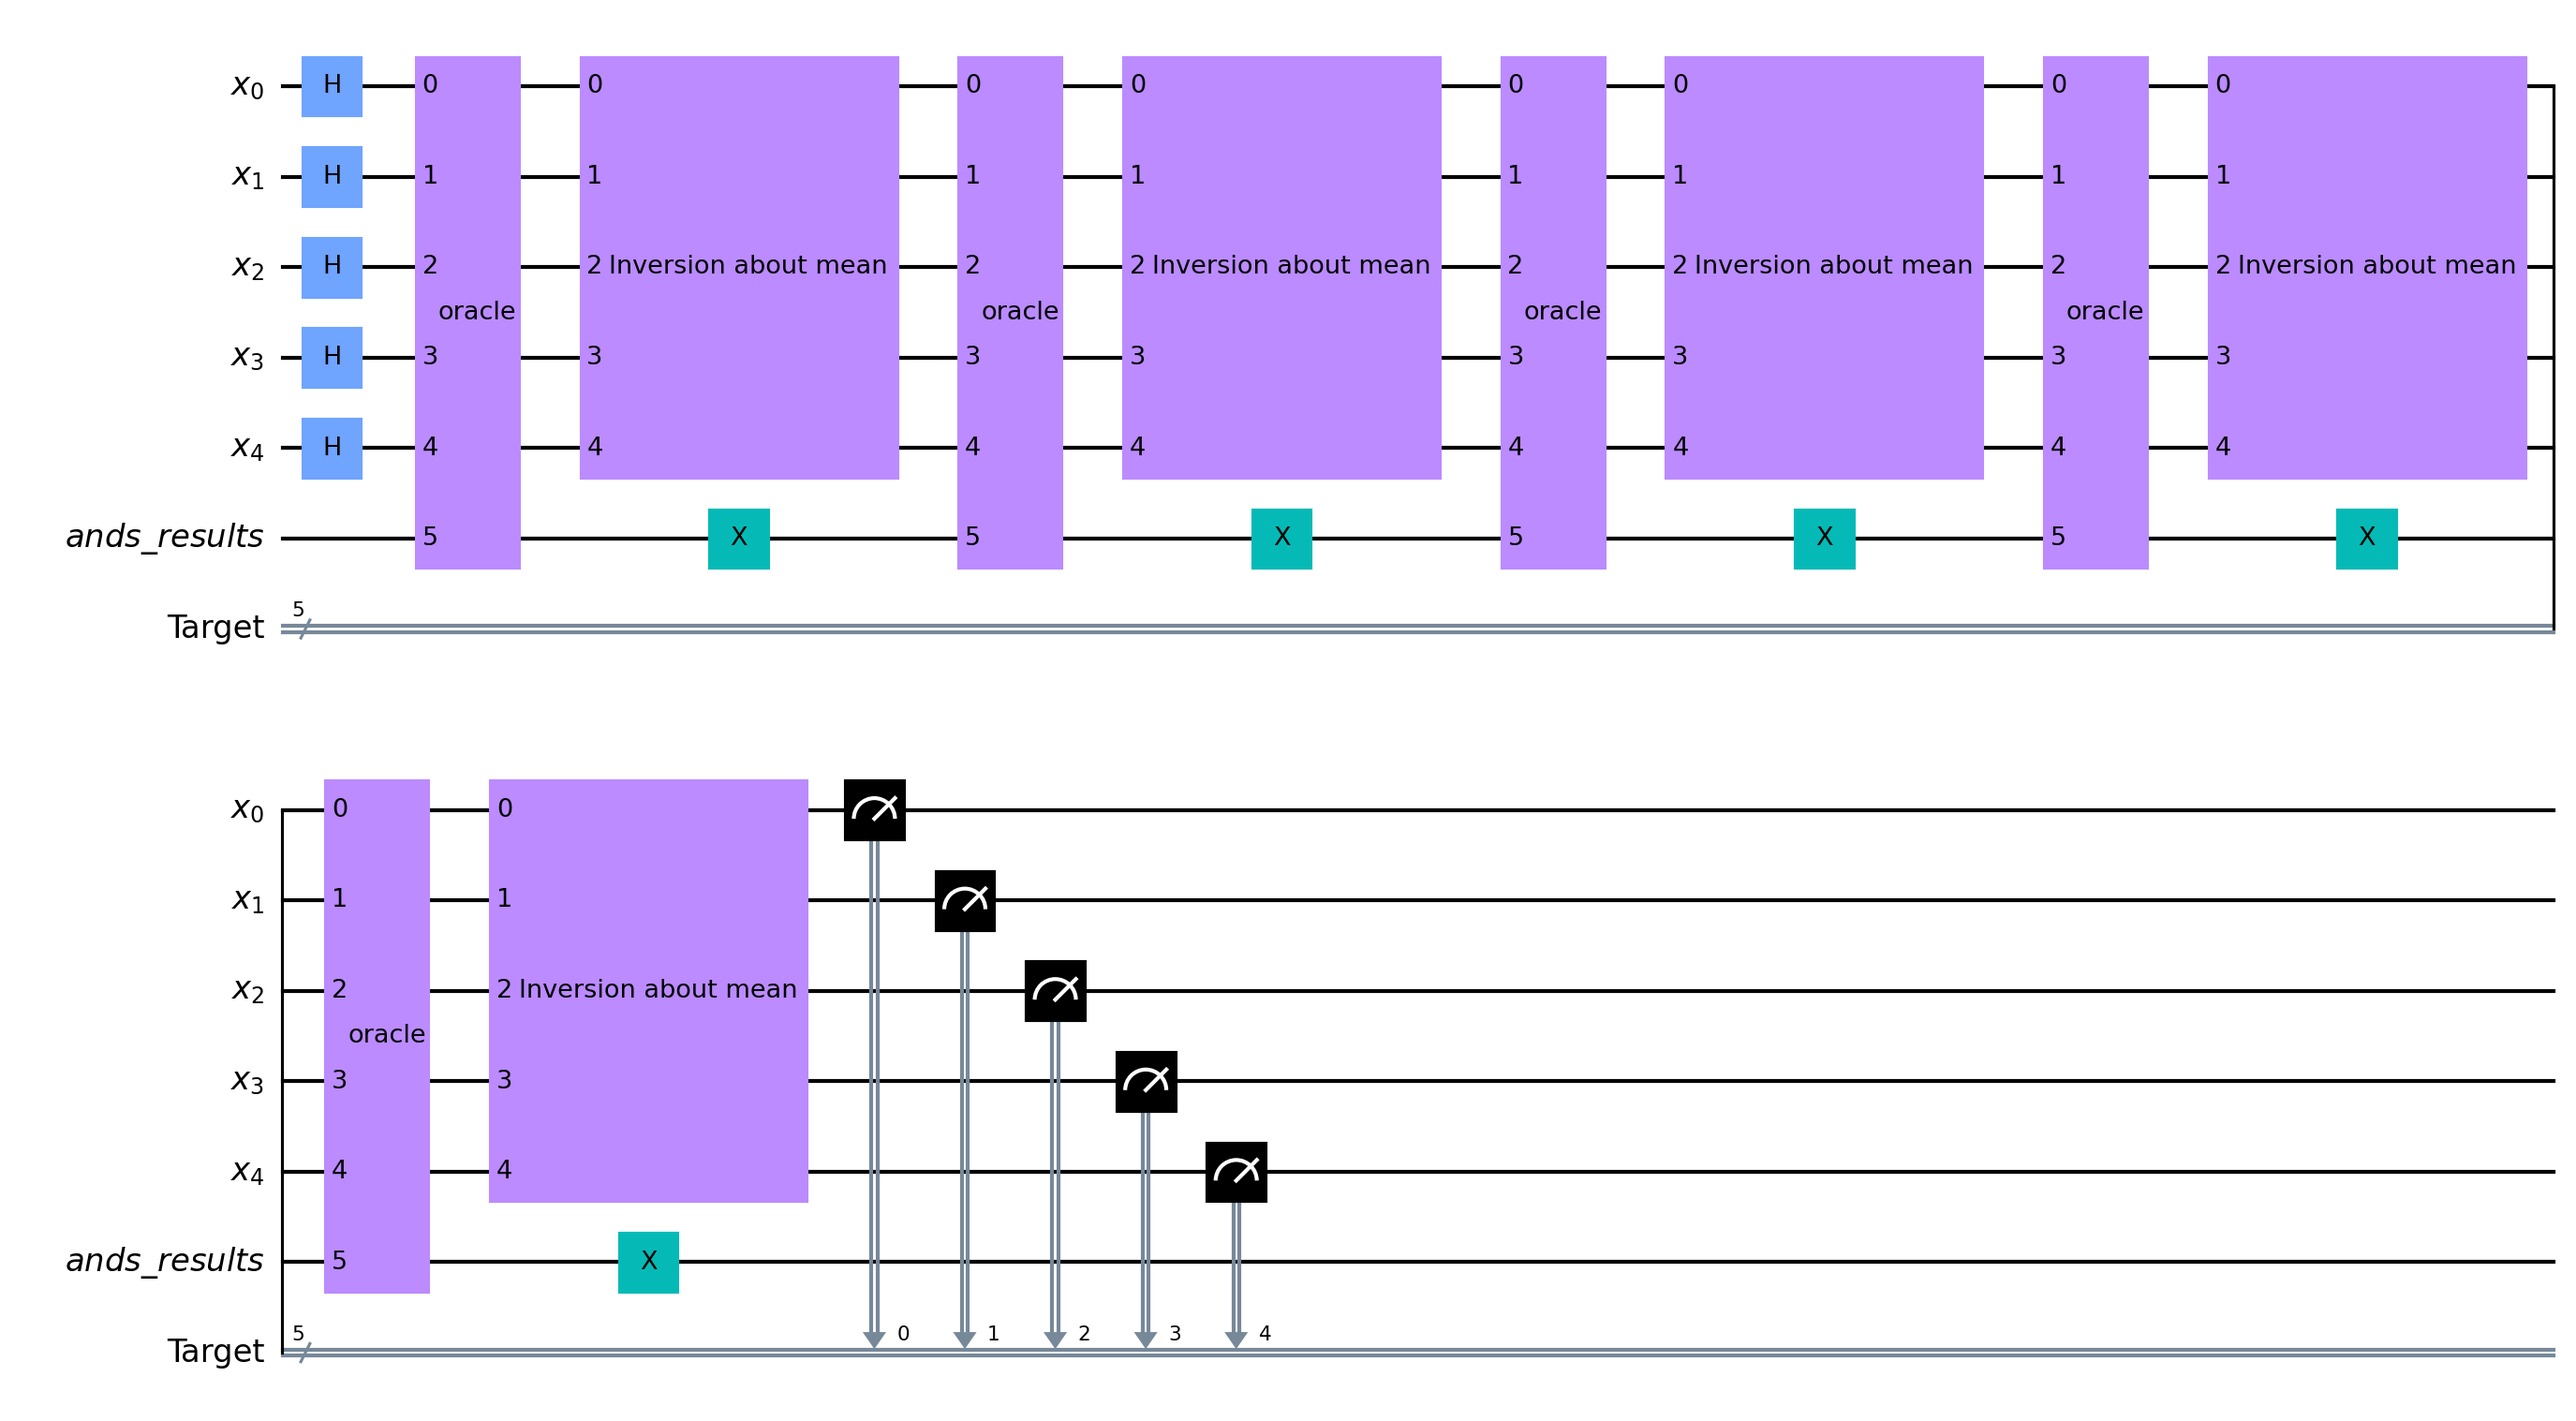
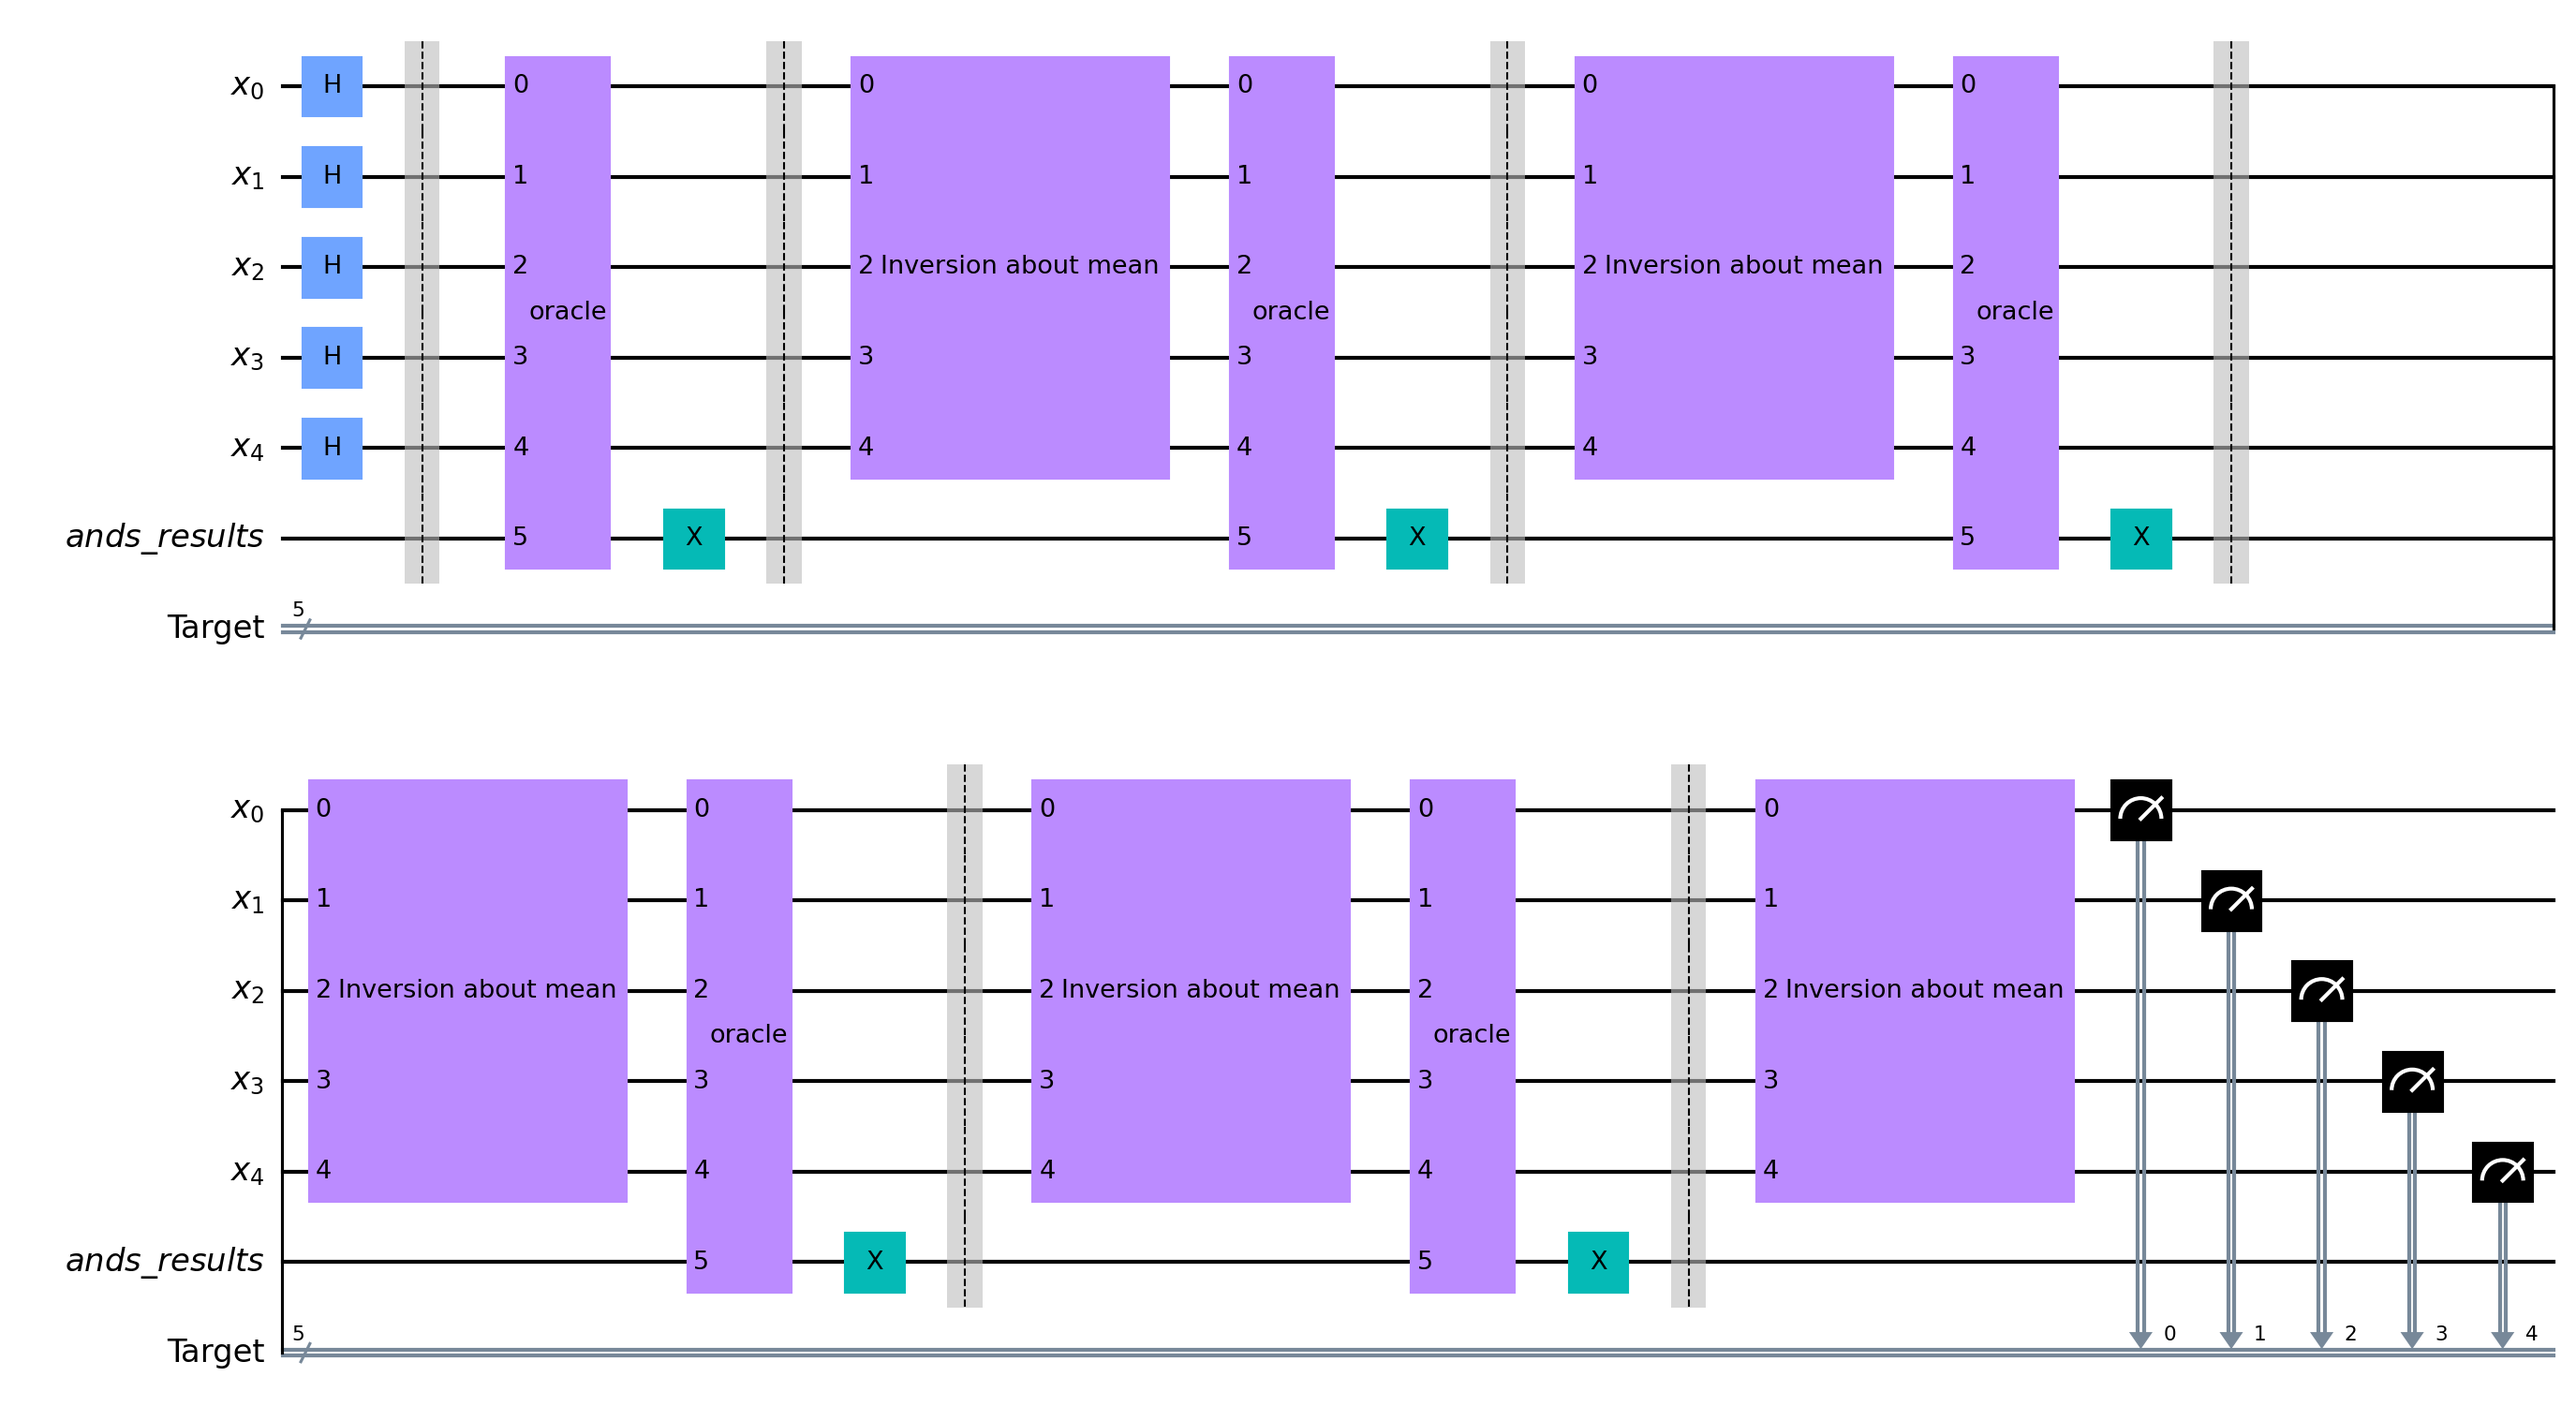
hot fix for Cz gate -> improve simulator perf

diff --git a/TP2/grover.py b/TP2/grover.py
@@ -24,10 +24,11 @@ res = ClassicalRegister(len(target), name='Target')
 
 grover = QuantumCircuit(x, res, fx, name='grover')
 grover.h(x)
-
+grover.barrier()
 for j in range(int((2 ** len(target)) ** (1 / 2))):
     grover.append(curr_oracle, x[:] + fx[:])
     grover.x(fx)
+    grover.barrier()
     inversion_about_mean = qi.Operator(matrix.tolist())
     grover.unitary(inversion_about_mean, x, label='Inversion about mean')
 
@@ -37,7 +38,7 @@ grover.measure(x, res)
 compiled_circuit = transpile(grover, simulator)
 
 # Execute the circuit on the qasm simulator
-job = simulator.run(compiled_circuit, shots=20000)
+job = simulator.run(compiled_circuit, shots=100000)
 
 # Grab results from the job
 result = job.result()

diff --git a/TP2/oracle.py b/TP2/oracle.py
@@ -13,14 +13,14 @@ def oracle(target):
         if target[correct_index] == '0':
             oracle_circuit.x(x[i])
 
-    oracle_circuit.mct(x[:], fx[0])
+    oracle_circuit.mct(x[:], fx)
+
+    oracle_circuit.cz(fx, x[0])
 
     for i in range(len(target)):
         correct_index = len(target) - i - 1
         if target[correct_index] == '0':
             oracle_circuit.x(x[i])
-
-    oracle_circuit.cz(fx, x)
 
     oracle_circuit.to_gate()
 
